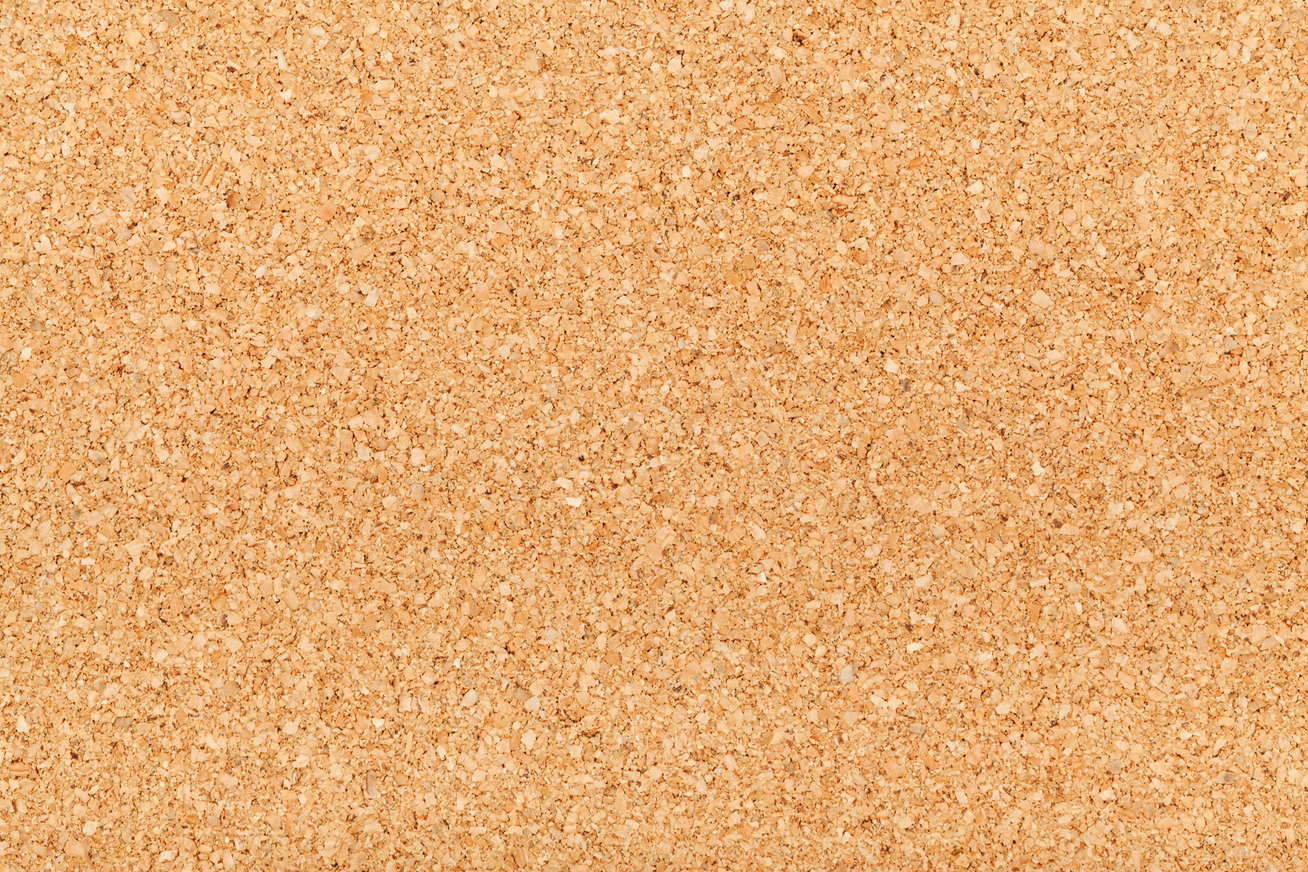
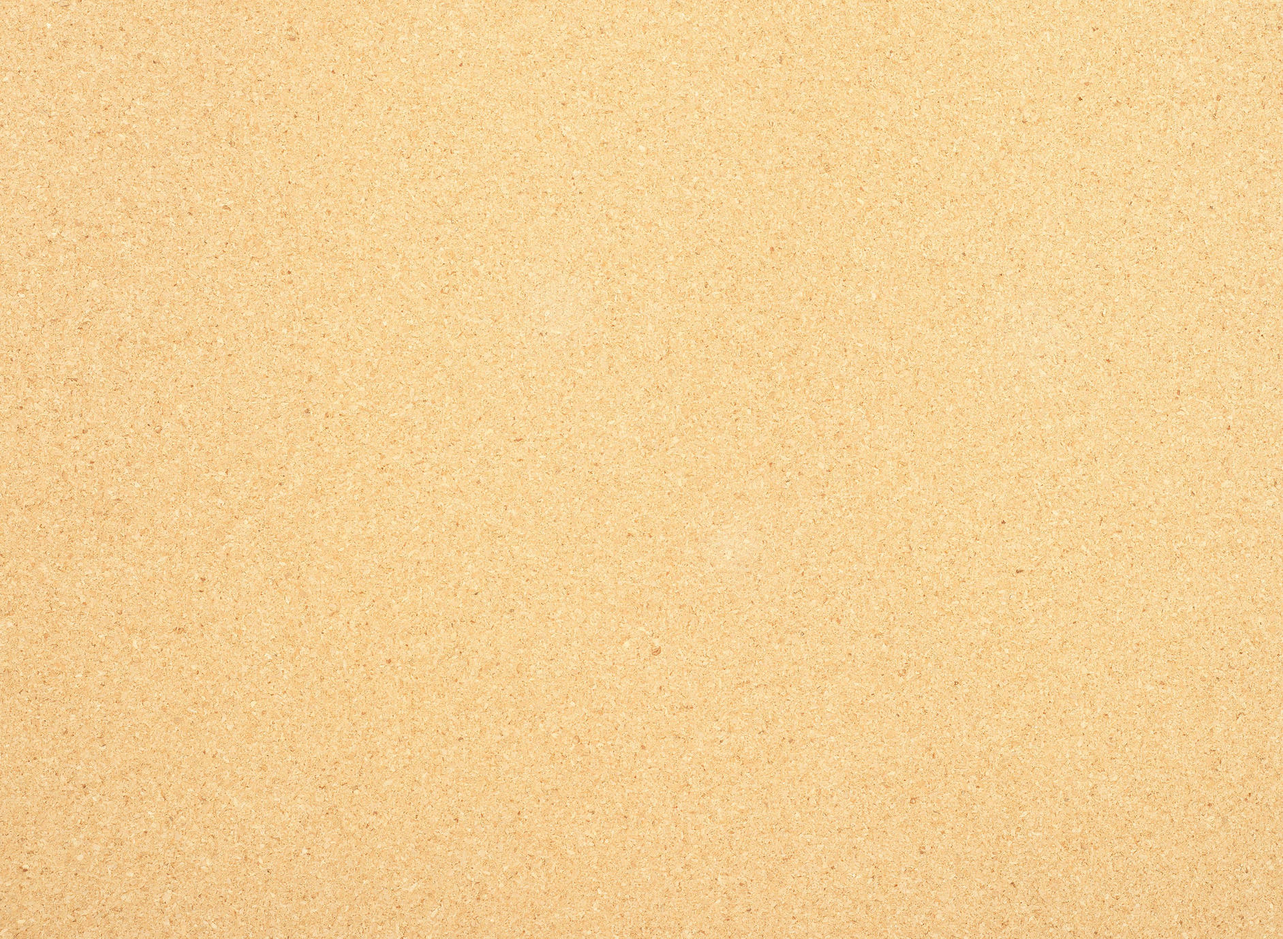
"Sticky_notes 1.1"

diff --git a/css/style.css b/css/style.css
@@ -4,9 +4,8 @@
     box-sizing: border-box;
 }
 body {
-    background-image: url("../images/wood.jpg");
+    background-image: url("../images/cork-background.jpg");
     background-repeat: no-repeat;
-    background-position: center;
     background-size: cover;
     font-family: 'Shadows Into Light', cursive;
     color: white;
@@ -20,47 +19,57 @@ body {
 
 #note_title {
     width: 200px;
-    height: 20px;
-    margin: 0 20px;
+    height: 30px;
+    margin: 10px 20px;
     background-color: #59d6e5;
 }
 #note_content {
     width: 200px;
     height: 80px;
-    margin: 0 20px;
+    margin: 10px 20px;
     background-color: #59d6e5;
+
 }
 .button {
     float: left;
-    margin: 10px;
+    margin-top: 50px;
+    margin-left: 10px;
+
+}
+
+#btn:hover {
+    cursor: pointer;
 }
 
 #btn {
     font-family: 'Shadows Into Light', cursive;
     font-weight: bold;
     color: dimgray;
-    padding: 0.5em 1em;
-    background-color: #278691;
+    padding: 0.5em;
+    background-color: #119191;
     border-radius: 3px;
     text-transform: uppercase;
     margin: 20px 10px;
-
+    width: 150px;
+    float: left;
 }
 #removebtn {
-    font: bold 15px Helvetica, Arial, sans-serif;
+    font: bold 16px Helvetica, Arial, sans-serif;
     color: #FFFFFF;
-    padding: 3px;
+    padding: 1px;
     opacity: 0.8;
     background-color: red;
-    border-radius: 3px;
+    border-radius: 2px;
     position: absolute;
-    margin-top: 97px;
-    margin-left: 180px;
+    margin-top: 100px;
+    margin-left: 183px;
     display: block;
     border-style: none;
 
 }
-
+#removebtn:hover {
+    cursor: pointer;
+}
 
 #draggable {
     width: 200px;

diff --git a/js/app.js b/js/app.js
@@ -25,10 +25,6 @@ document.addEventListener("DOMContentLoaded", function() {
             newNote.appendChild(newText);
 
             newNote.id = "draggable";
-            // newH1.append(newTitle);
-            // newText.append(newContent);
-            // newH1.innerText = newDiv.value;
-            // newNote.innerHTML = newTitle+newContent;
             newH1.innerText = newTitle;
             newText.innerText = newContent;
 
@@ -46,7 +42,7 @@ document.addEventListener("DOMContentLoaded", function() {
 
         var remButton = document.createElement("button");
         remButton.innerText = "X";
-        newNote.appendChild(remButton); //zmiana newDiv na newNote wrzuciła remButton do odpowiedniego diva
+        newNote.appendChild(remButton);
         remButton.id = "removebtn";
 
         remButton.addEventListener("click", function () {
@@ -59,5 +55,5 @@ document.addEventListener("DOMContentLoaded", function() {
     });
 
 });
-// Drobna wskazówka - ogólnie piszesz w czystym js, moze łątwiej będzie w jquery, skoro już podpięłaś tą bibliotekę?
+
 

diff --git a/index.html b/index.html
@@ -11,8 +11,6 @@
 
 
 
-
-
 <div class="note">
     <form id="note_form">
         <label>
